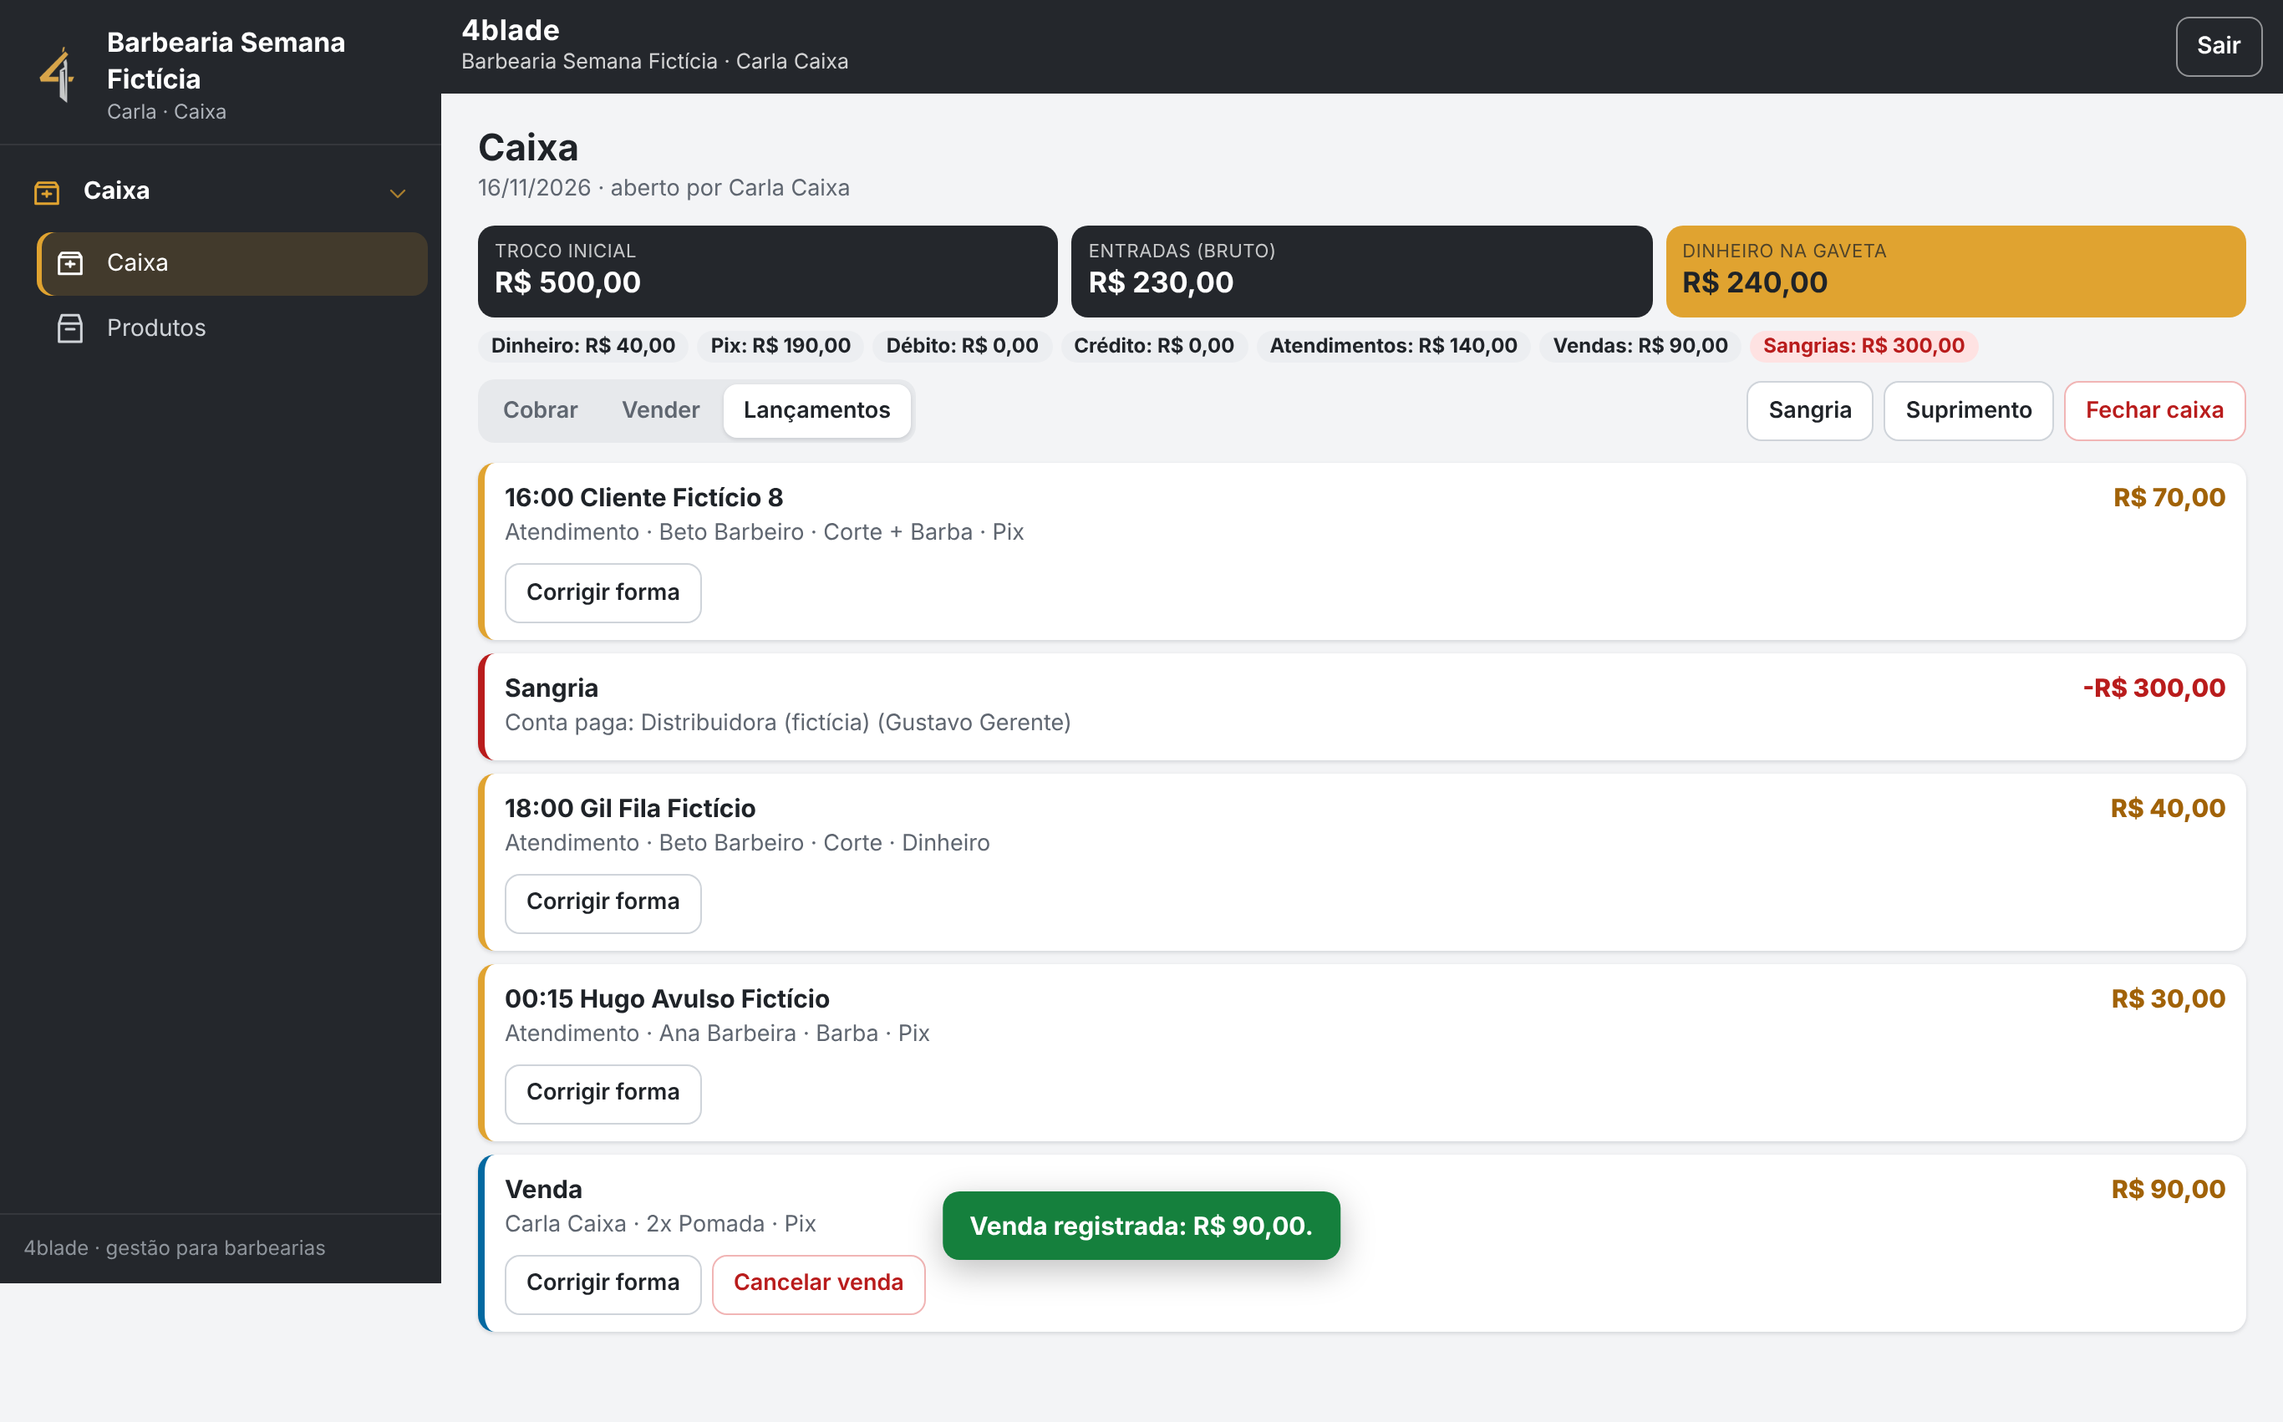
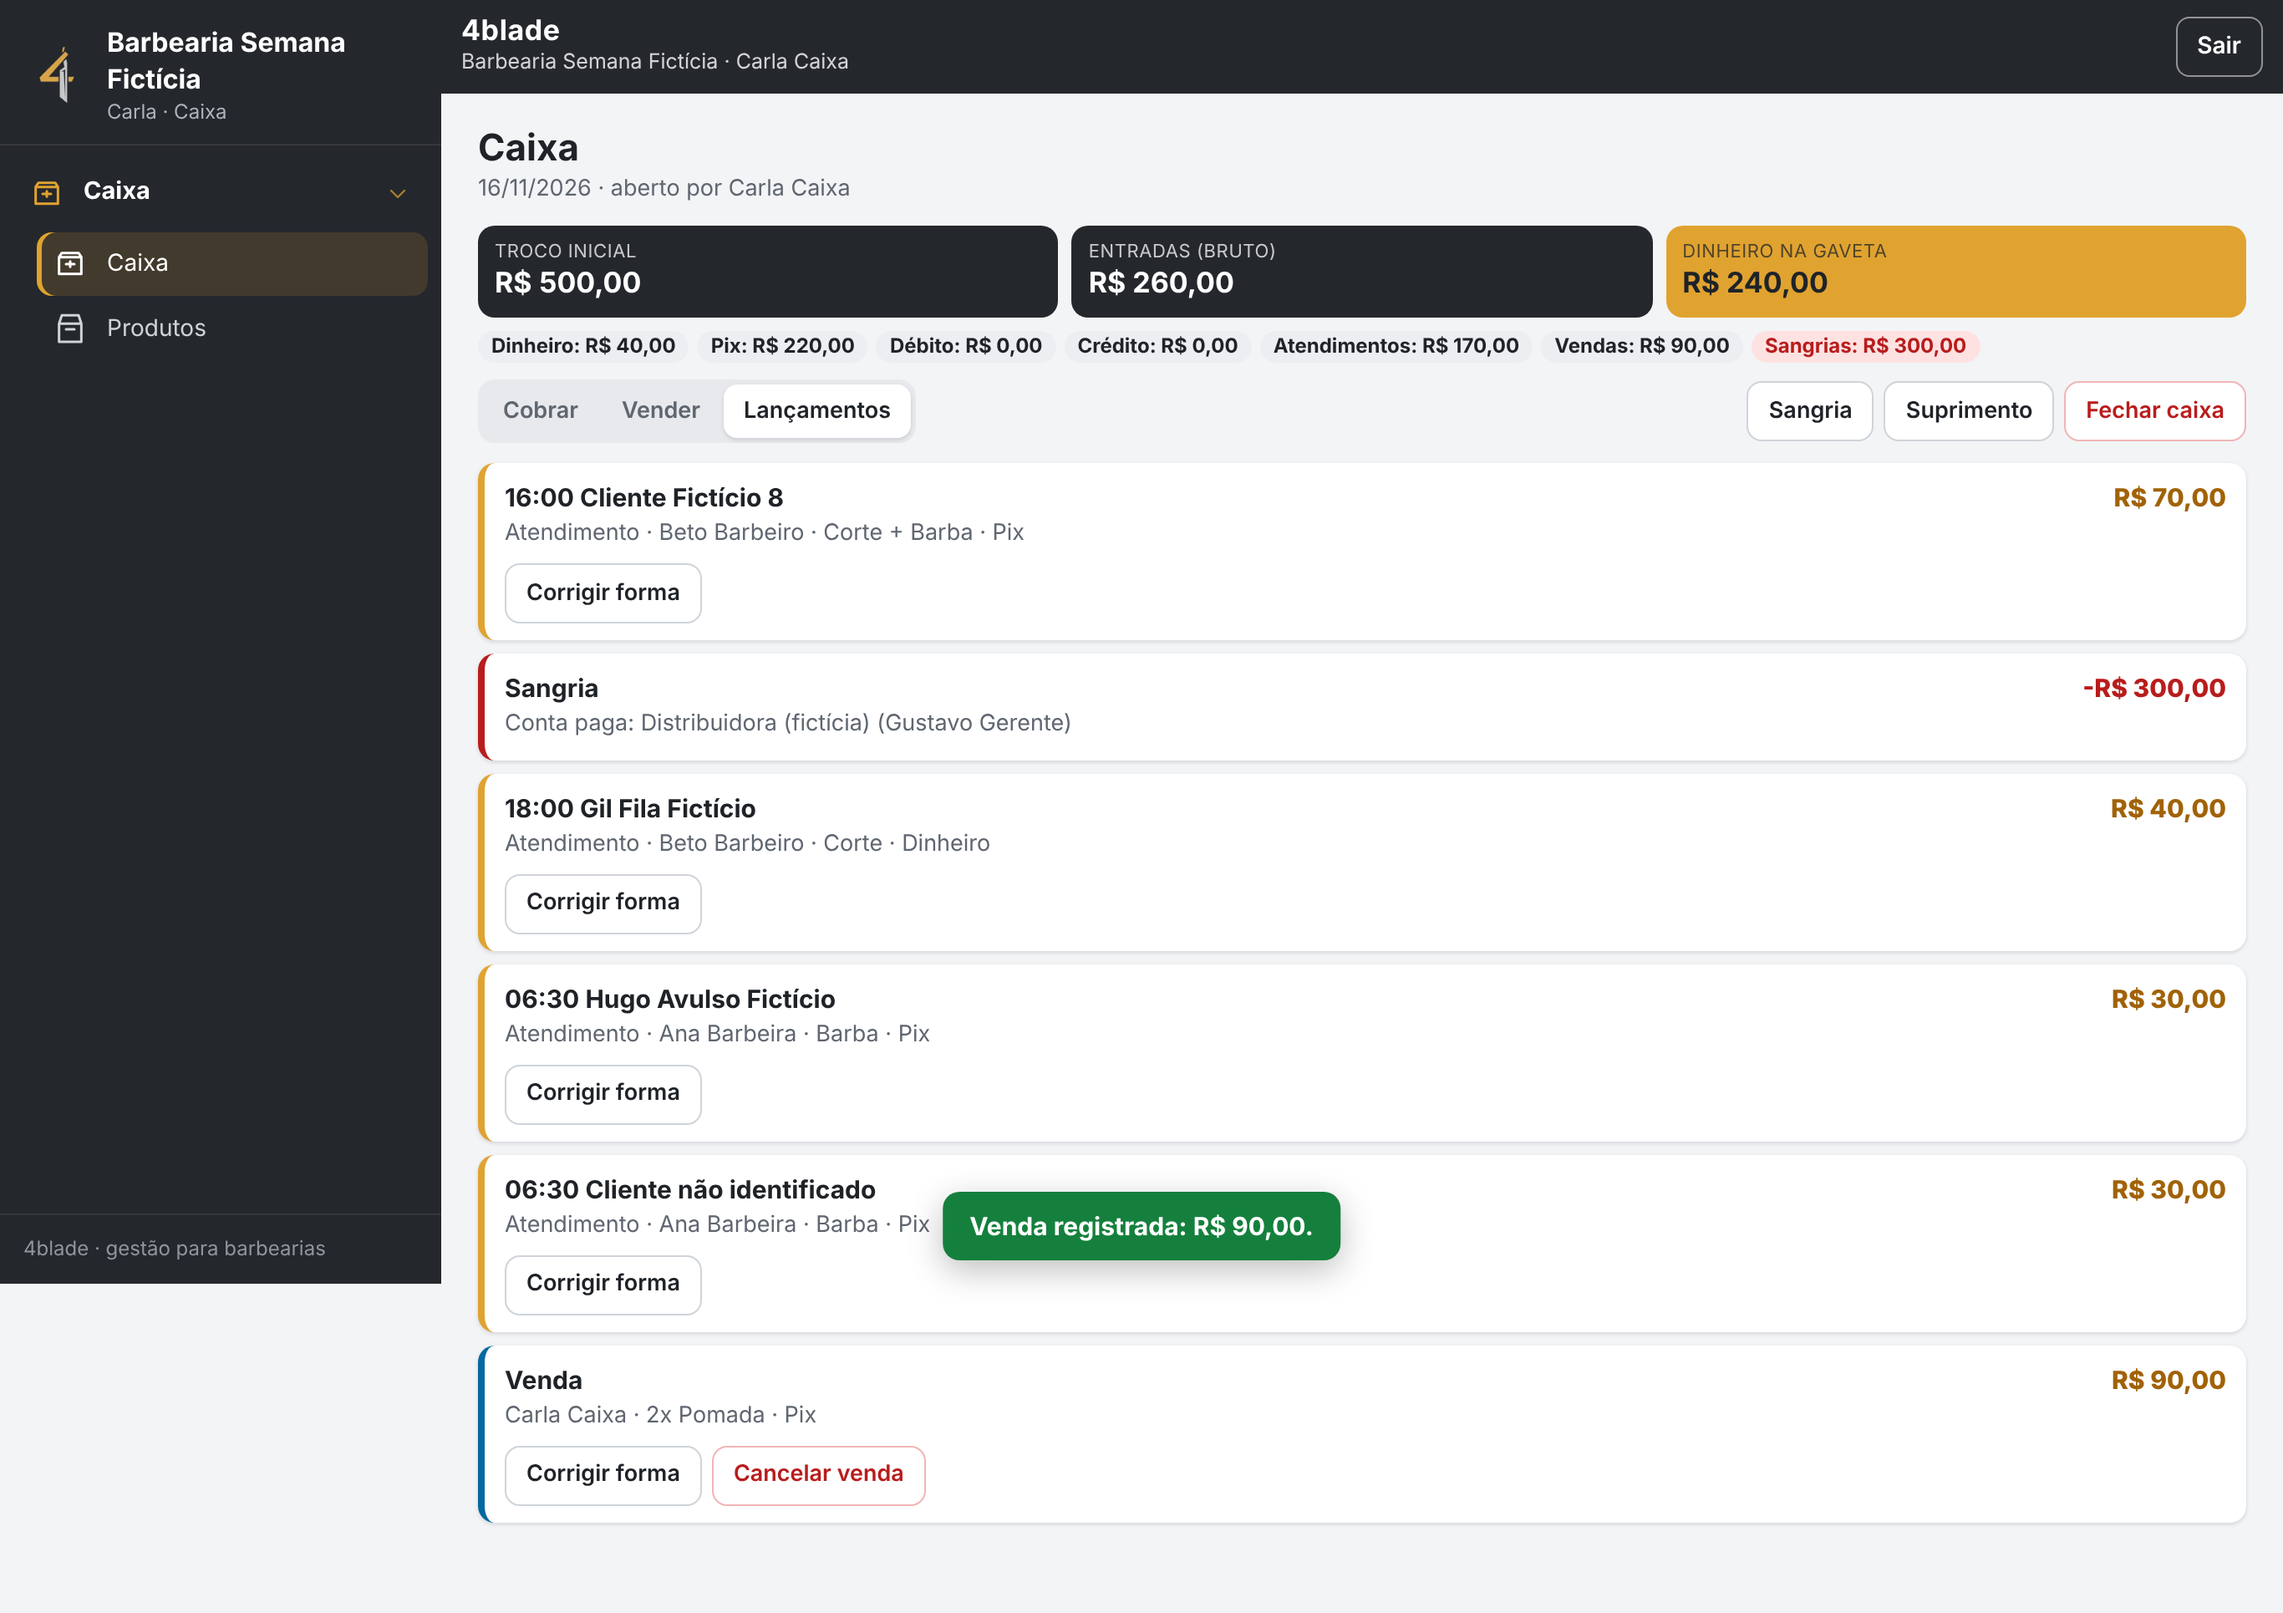
Caixa: cobrar atendimento sem telefone e sem nome (Cliente não identificado)
Claude-Session: https://claude.ai/code/session_01R9hMmP8YX9EsdpaJW4w2cf

diff --git a/public/app.js b/public/app.js
@@ -1040,7 +1040,11 @@ async function janelaVenda({ agendamento = null, aoTerminar } = {}) {
   const totalEl = el("p", { class: "total-final", "data-teste": "total-venda" });
   const total = () => linhas.reduce((t, l) => t + (Math.max(0, parseInt(l.qtd.value, 10) || 0) * l.p.precoCentavos), 0);
   const pag = blocoPagamento(total);
-  const atualizar = () => { totalEl.textContent = `Total: ${reais(total())}`; pag.atualizar(); };
+  const atualizar = () => {
+    totalEl.textContent = `Total: ${reais(total())}`; pag.atualizar();
+    const f = janela.querySelector("form");
+    f.aLgpd.closest(".marcar").hidden = !f.aTel.value.replace(/\D/g, "");   // aceite só se houver telefone
+  };
   const promessa = abrirJanela(agendamento ? `Vender para ${agendamento.cliente.nome}` : "Vender produto", [
     el("p", { class: "suave", text: "Informe a quantidade de cada produto. A venda baixa o estoque na hora." }),
     el("div", { class: "lista-servicos" }, linhas.map(l => l.el)),
@@ -1313,8 +1317,8 @@ function janelaAvulso(profissionais, recarregar) {
     el("div", { class: "lista-servicos" }, linhas.map(l => l.el)),
     totalEl,
     campo("Telefone do cliente (WhatsApp) — opcional", { name: "aTel", inputmode: "tel", autocomplete: "off" }),
-    campo("Nome do cliente", { name: "aNome", autocomplete: "off" }, "Obrigatório sem telefone ou se for cliente novo."),
-    caixaMarcar("O cliente aceita que o telefone seja usado para o atendimento (LGPD)", { name: "aLgpd" }),
+    campo("Nome do cliente — opcional", { name: "aNome", autocomplete: "off" }, "Sem nome e sem telefone, fica como \"Cliente não identificado\"."),
+    Object.assign(caixaMarcar("O cliente aceita que o telefone seja usado para o atendimento (LGPD)", { name: "aLgpd" }), { hidden: true }),
     ...pag.elementos
   ], {
     ok: "Cobrar",
@@ -1334,7 +1338,11 @@ function janelaAvulso(profissionais, recarregar) {
       recarregar();
     }
   });
-  const atualizar = () => { totalEl.textContent = `Total: ${reais(total())}`; pag.atualizar(); };
+  const atualizar = () => {
+    totalEl.textContent = `Total: ${reais(total())}`; pag.atualizar();
+    const f = janela.querySelector("form");
+    f.aLgpd.closest(".marcar").hidden = !f.aTel.value.replace(/\D/g, "");   // aceite só se houver telefone
+  };
   janela.querySelector("form").addEventListener("input", atualizar);
   janela.querySelector("form").addEventListener("change", atualizar);
   atualizar();

diff --git a/test/melhorias.test.js b/test/melhorias.test.js
@@ -179,7 +179,17 @@ describe("telefone opcional na marcação (pedido de 16/11/2026)", () => {
     const av = await post("/api/caixa/atendimento-avulso", cx.token, { barbeiroId: barb.id, itens: [{ servicoId: corte.id, precoCobradoCentavos: 4000 }],
       pagamentos: [{ forma: "pix", valorCentavos: 4000 }], cliente: { nome: "Passante Fictício" } });
     assert.equal(av.status, 201, JSON.stringify(av.dados));
+    // sem nome e sem telefone: no caixa vira "Cliente não identificado" (na agenda continua exigindo o nome)
+    const anon = await post("/api/caixa/atendimento-avulso", cx.token, { barbeiroId: barb.id, itens: [{ servicoId: corte.id, precoCobradoCentavos: 4000 }],
+      pagamentos: [{ forma: "dinheiro", valorCentavos: 4000 }], cliente: { telefone: "", nome: "" } });
+    assert.equal(anon.status, 201, JSON.stringify(anon.dados));
+    const anon2 = await post("/api/caixa/atendimento-avulso", cx.token, { barbeiroId: barb.id, itens: [{ servicoId: corte.id, precoCobradoCentavos: 4000 }],
+      pagamentos: [{ forma: "pix", valorCentavos: 4000 }], cliente: {} });
+    assert.equal(anon2.status, 201, JSON.stringify(anon2.dados));
     const fila = (await get("/api/caixa/atendimentos", cx.token)).dados.atendimentos;
+    const anonimos = fila.filter(a => a.cliente.nome === "Cliente não identificado");
+    assert.equal(anonimos.length, 2);
+    assert.equal(anonimos[0].cliente.telefone, null);
     assert.equal(fila.find(a => a.cliente.nome === "Passante Fictício").cliente.telefone, null);
   });
 });

diff --git a/src/agenda.js b/src/agenda.js
@@ -151,12 +151,15 @@ async function listarAgenda(ctx) {
 // ---------- MARCAR ----------
 // Cliente identificado pelo telefone (existe → usa; não existe → nasce aqui com aceite LGPD) ou, sem telefone, pelo nome.
 // Põe em "comandos" o cadastro do cliente novo (para ir no mesmo lote) e devolve { id, nome, novo }.
+const CLIENTE_NAO_IDENTIFICADO = "Cliente não identificado";
+
 async function clienteDaMarcacao(ctx, c = {}, comandos, origem = "agenda") {
   const { db, user } = ctx;
   const semTelefone = typeof c.telefone !== "string" || !c.telefone.replace(/\D/g, "");
   if (semTelefone) {
     // Telefone é opcional: sem ele o cliente é identificado pelo nome (mesmo nome sem telefone = mesmo cliente).
-    const nome = textoLimpo(c.nome, 2, 80);
+    // No caixa (atendimento sem horário) dá para cobrar sem identificar o cliente.
+    const nome = textoLimpo(c.nome, 2, 80) || (origem === "caixa" ? CLIENTE_NAO_IDENTIFICADO : null);
     if (!nome) erro("Informe o telefone ou o nome do cliente.");
     const existente = await db.prepare(`SELECT id, nome, ativo FROM clientes WHERE barbearia_id = ? AND lower(nome) = lower(?)
                                         AND telefone LIKE '${PREFIXO_SEM_TELEFONE}%' ORDER BY ativo DESC LIMIT 1`).bind(ctx.barbeariaId, nome).first();

diff --git a/docs/ESPECIFICACAO.md b/docs/ESPECIFICACAO.md
@@ -157,5 +157,5 @@ Cada entrega: testes automáticos + teste no navegador (computador 1366 px e cel
 - **Agenda em Dia, Semana, Mês e Ano.** Mês: calendário com a cor de cada dia — verde = horários livres, laranja = poucos horários (menos de 1/3 livre), vermelho = agenda cheia (não cabe nem o serviço mais curto), cinza = fechado/folga — e quantas vagas sobram. Ano: 12 mini calendários com as mesmas cores; tocar abre o mês, tocar no dia abre o dia.
 - **Horário fixo (recorrência):** ao marcar, "Repetir" toda semana ou a cada 2, 3 ou 4 semanas, até uma data (no máximo 6 meses). Datas sem vaga (ocupado, fechado, folga, bloqueio) ficam de fora e aparecem numa lista. O horário mostra o selo "Fixo". Ao cancelar dá para cancelar só aquele dia ou aquele e os próximos (encerra a série, com motivo).
 - **Caixa como frente de caixa (PDV):** abas Cobrar (fila dos atendimentos de hoje para cobrar + "Atendimento sem horário" para quem chegou sem marcar), Vender (produtos em botões + carrinho) e Lançamentos. O caixa não vê comissão. Atendimento sem horário fica registrado na agenda do profissional na hora atual.
-- **Telefone opcional ao marcar** (agenda e "Atendimento sem horário"): sem telefone, informa-se o nome; o mesmo nome sem telefone é o mesmo cliente; não há WhatsApp para ele (botões somem). O cliente pode ganhar telefone depois em Clientes. Telefone digitado errado continua recusado. No banco, o cliente sem telefone guarda o marcador `sem:<id>` (a coluna é obrigatória e única; nada muda na estrutura).
+- **Telefone opcional ao marcar** (agenda e "Atendimento sem horário"): sem telefone, informa-se o nome (no caixa, nem o nome é obrigatório: sem nada, fica "Cliente não identificado"); o mesmo nome sem telefone é o mesmo cliente; não há WhatsApp para ele (botões somem). O cliente pode ganhar telefone depois em Clientes. Telefone digitado errado continua recusado. No banco, o cliente sem telefone guarda o marcador `sem:<id>` (a coluna é obrigatória e única; nada muda na estrutura).
 - **Marca e carregamento:** tela de entrada com a logo e a frase "Gestão afiada para sua barbearia."; ao abrir o app, tela escura com a logo e a frase; ao carregar telas, o símbolo da navalha com anel dourado girando (só aparece se a espera passar de 0,25 s).

diff --git a/CLAUDE.md b/CLAUDE.md
@@ -64,7 +64,7 @@ App de gestão para barbearias, vendido por assinatura para várias barbearias (
   - Banco: `migrations/0005_recorrencia.sql` (agendamento_series, agendamento_serie_itens).
   - API: `marcar` aceita `repetir {intervaloSemanas, ate}`; cancelar com `serie: true`; `GET /agenda/ocupacao` (livre/poucos/cheio/fechado por dia); caixa: `GET /caixa/atendimentos`, `POST /caixa/cobrar`, `POST /caixa/atendimento-avulso`.
   - Tela: menu lateral por categorias (`montarMenu`), agenda Mês/Ano, PDV do caixa (abas Cobrar/Vender/Lançamentos), CSS refeito e compacto. `body[data-carregando]` marca tela sendo montada (usado pelos testes); `test/navegacao.mjs` (`ir`) navega pelo menu.
-  - Depois: Mensagens no grupo Atendimento; celular com barras na largura toda e Lucro em 2 colunas; tela de entrada com logo + frase "Gestão afiada para sua barbearia."; carregando com a marca (`comCarga`, `#carregador`); telefone OPCIONAL ao marcar (cliente sem telefone = marcador `sem:<id>` na coluna `telefone`; `telefoneReal()` em agenda-util devolve null para a tela, CSV e WhatsApp).
+  - Depois: Mensagens no grupo Atendimento; celular com barras na largura toda e Lucro em 2 colunas; tela de entrada com logo + frase "Gestão afiada para sua barbearia."; carregando com a marca (`comCarga`, `#carregador`); telefone OPCIONAL ao marcar (no caixa até o nome é opcional → "Cliente não identificado"; cliente sem telefone = marcador `sem:<id>` na coluna `telefone`; `telefoneReal()` em agenda-util devolve null para a tela, CSV e WhatsApp).
   - Testes: `npm test` (86) + `npm run teste-navegador` (E1–E4 + `test/navegador-melhorias.mjs`; prints em `docs/prints/melhorias/`).
 
 ## Versão de teste publicada (Cloudflare)
